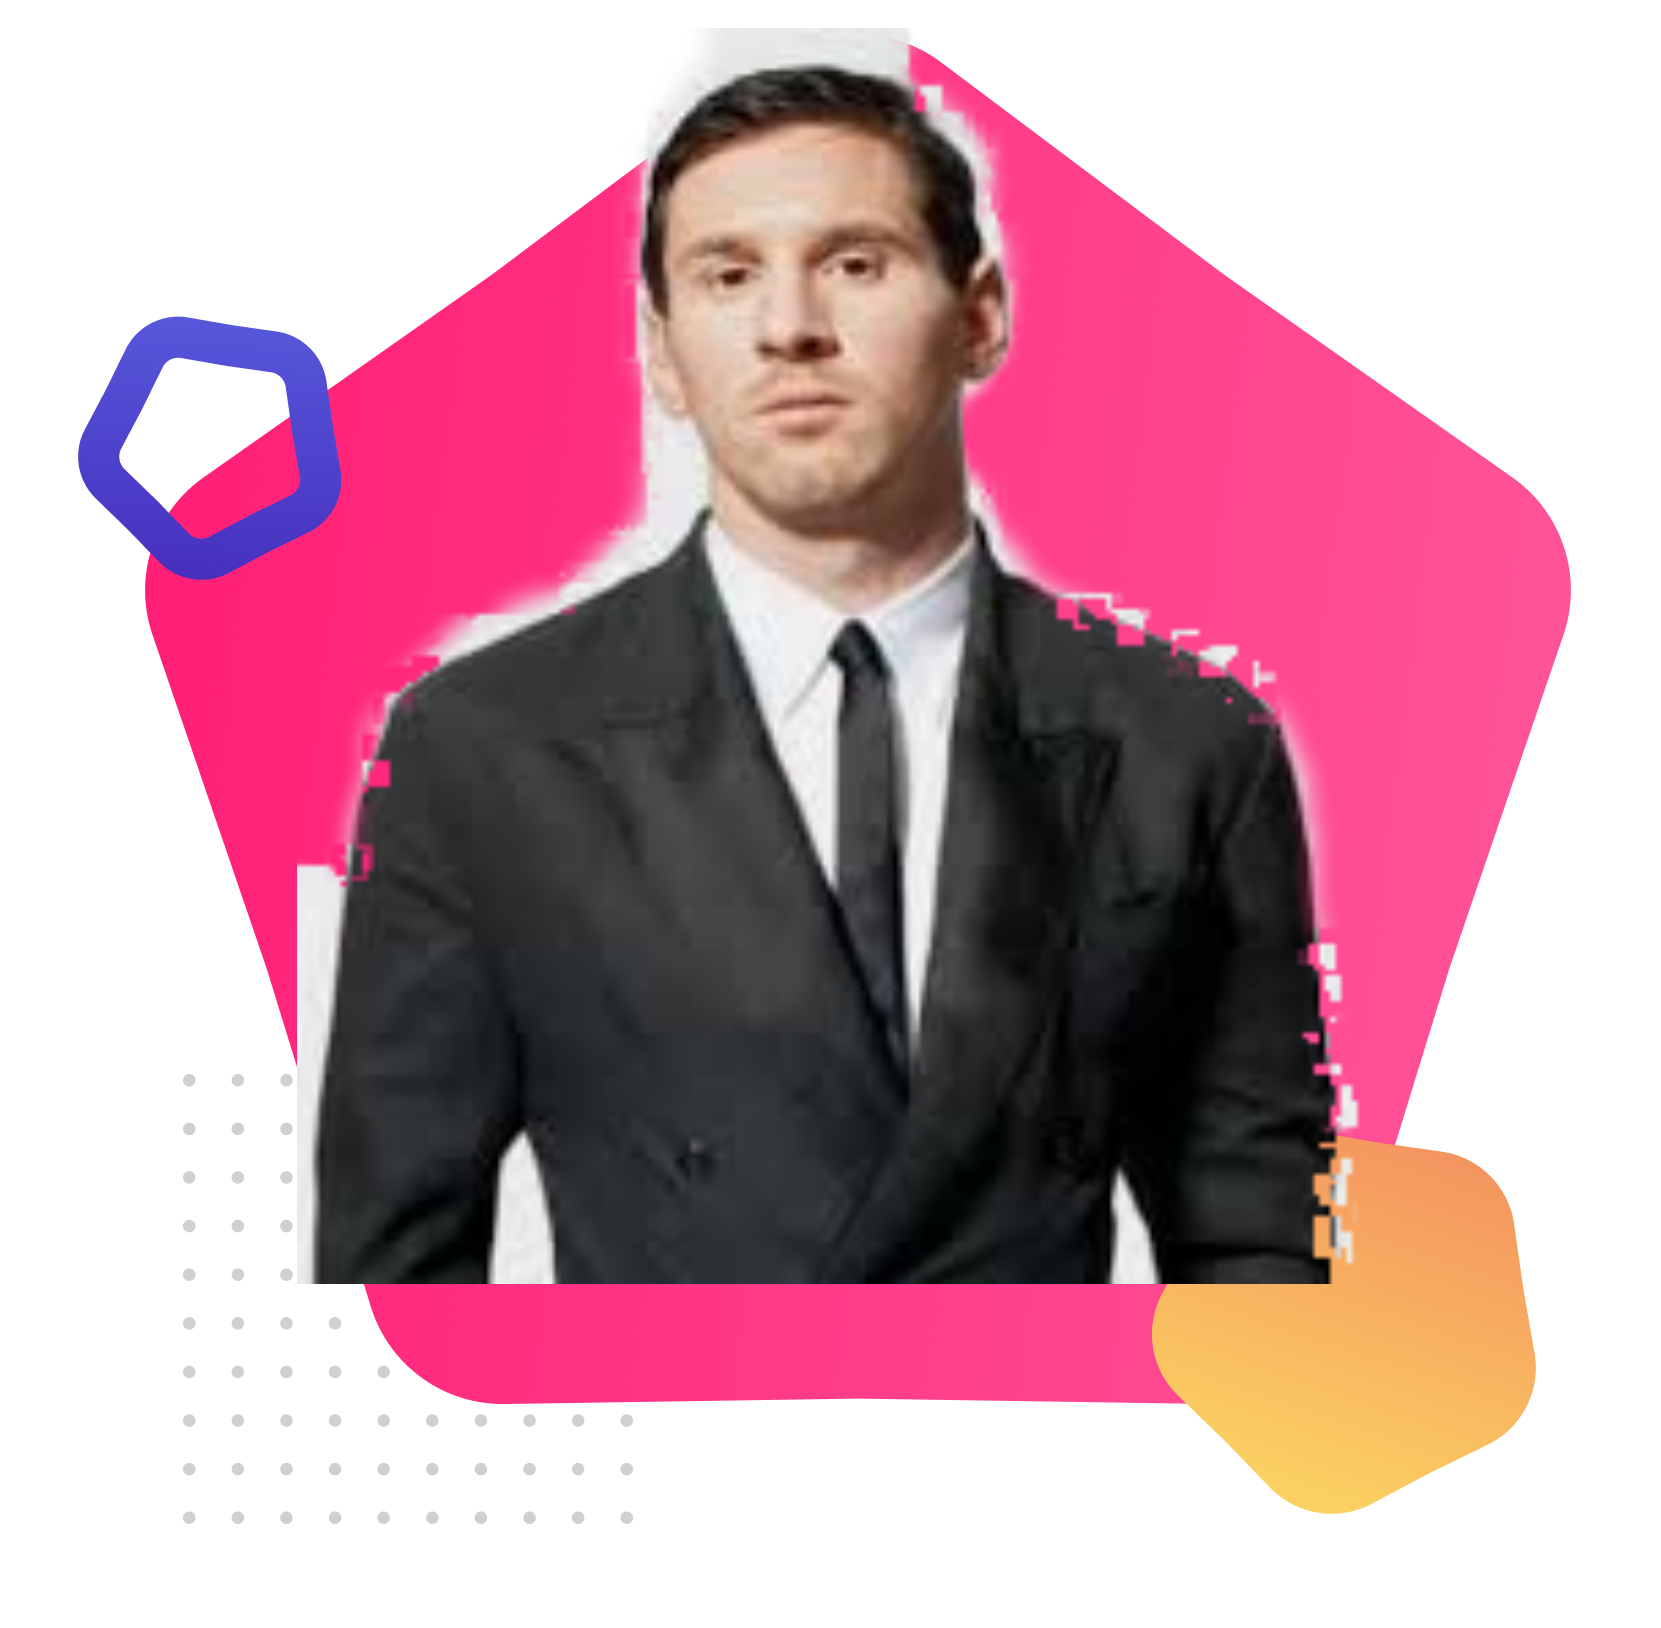
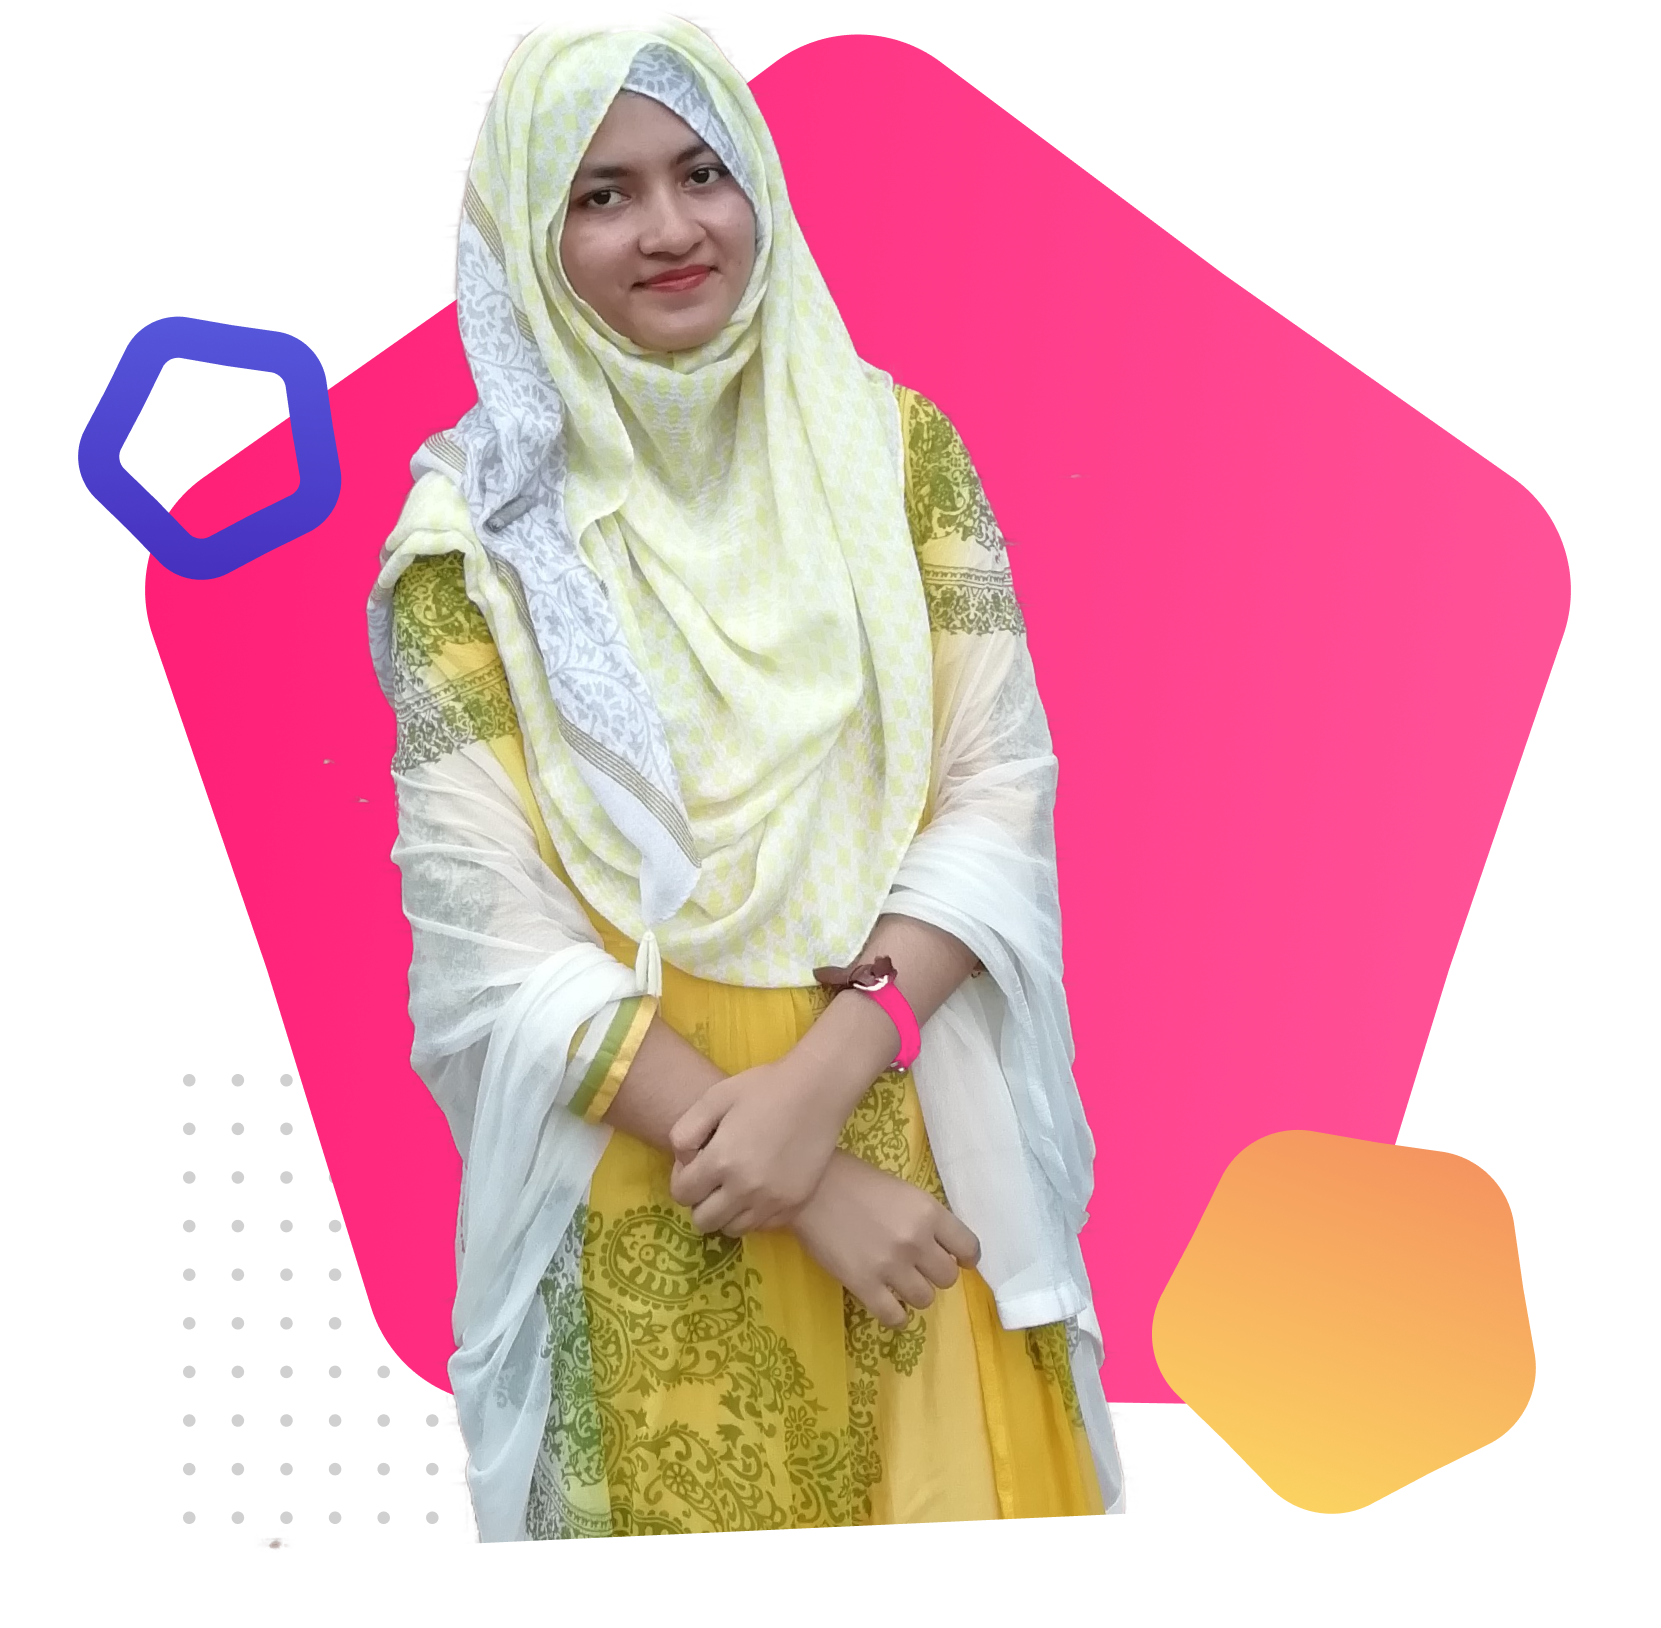
hi

diff --git a/style.css b/style.css
@@ -12,8 +12,7 @@ ul{
     margin-left: 60%;
 }
 ul li {
-    list-style: none;
-    
+    list-style: none;   
     float: left;
     line-height: 100px;
     font-weight: 600;
@@ -25,32 +24,26 @@ ul li a {
     color: black;
     padding: 0px 20px;
 }
-
 h1{
     font-size: 50px;
     color: #363958;
     letter-spacing: 1px;
 }
 h2{
-    /* About */
     width: 40px;
     height: 60px;
     left: 80%;
     top: 600px;
     margin-left: 10%;
     margin-top: 10%;
-
     font-family: Bebas Neue;
     font-style: normal;
     font-weight: bold;
     font-size: 48px;
     line-height: 30px;
     color: #363958;
-
 }
-
 p{
-    /* lorem text */
   width: 500px;
   height: 48px;
   left: 138px;
@@ -58,22 +51,15 @@ p{
   margin-left: 5px;
   margin-bottom: 9%;
   padding:50px 0px;
-
   font-family: roboto;
-  
   font-weight: 400;
   font-size: 16px;
   line-height: 24px;
   color: #3E3E3E;
-
-
 }
-
-
 .orange-highlight{
     color: #FF8367 ;
 }
-
 .name{
     text-align: left;
     line-height: 50px;
@@ -97,7 +83,6 @@ p{
 .half-width img{
     width: 100%;
 }
-
 .link-button{
     text-decoration: none;
     background: linear-gradient(0deg, #FF8063 -28.33%, #F46060 95.83%);
@@ -110,14 +95,11 @@ p{
     height: 100px;
     font-family: 'Times New Roman', Times, serif;
     font-size: medium;
-    
-
 }
 .first-section{
     margin-left: 3%;
     margin-right: 7%;
 }
-
 #second{
     font-family: Roboto;
     font-size: 16px;
@@ -128,7 +110,6 @@ p{
     text-align: left;
     margin-left: 10%;
     margin-top: -80px;
-
 }
 .second-section{
     margin-top: 5%;
@@ -146,15 +127,12 @@ p{
     height: 100px;
     font-family: 'Times New Roman', Times, serif;
     font-size: medium;
-
 }
-
 .third-section{
     background-color: #f0f0f0;
     width: 100%;
     height: 800px;
-    margin-top: 1000px;
-
+    margin-top: 1200px;
 }
 .latest-highlight{
     color: #F46060;
@@ -164,8 +142,7 @@ p{
     width: 700px;
     height: 48px;
     left: 532px;
-    top: 1250px;
-
+    top: 1400px;
     font-family: Bebas Neue;
     font-style: normal;
     font-weight: bold;
@@ -178,44 +155,34 @@ p{
     height: 350px;
     left: 135px;
     top: 1454px;
-    margin-top: 20%;
-    margin-right: 1%;
+    margin-top: 15%;
+    margin-right: 2%;
     margin-left: 3%;
     border-radius:10%;
 
     background: #FFFFFF;
     box-shadow: 0px 6.5812px 19.7436px rgba(0, 0, 0, 0.07);
-    
-
 }
 .working-project-paragraph{
     height: 60px;
-    margin-left: -1%;
-    
+    margin-left: -1%;   
     top: 1736px;
-
     font-family: Roboto;
     font-style: normal;
     font-weight: normal;
     font-size: 16px;
     line-height: 28px;
     color: #6C6C6C;
-    
-    
-
 }
-.working-project-image{
-    
+.working-project-image{    
     width: 339px;
     height: 213px;
     left: 551px;
     top: 1469px;
     margin-left: 5%;
     margin-top: 5%;
-
 }
-.working-project-headline{
-    
+.working-project-headline{   
    width: 300px;
    height: 28px;
    left: 952px;
@@ -227,20 +194,15 @@ p{
    font-size: 24px;
    line-height: 28px;
    text-align:center ;
-
    color: #363958;
-
 }
-.last-section{
-   
-    background-image: url(images/bg.png);
-    
+.last-section{  
+    background-image: url(images/bg.png);    
     position: absolute;
     width: 906px;
     height: 225px;
     left: 267px;
-    top: 2116px;
-    
+    top: 2116px;   
 }
 #lets-chat{
     text-decoration: none;

diff --git a/index.html b/index.html
@@ -6,7 +6,7 @@
     <title>Personal Portfolio</title>
     <link rel="preconnect" href="https://fonts.gstatic.com">
     <link href="https://fonts.googleapis.com/css2?family=Bebas+Neue&display=swap" rel="stylesheet">
-    <link rel="stylesheet" href="https://cdnjs.cloudflare.com/ajax/libs/font-awesome/4.7.0/css/font-awesome.min.css">
+
     <link rel="stylesheet" href="style.css">
 </head>
 <body>
@@ -22,7 +22,7 @@
    <section class="first-section">
        <div class="half-width">
            <h1 class="name">HELLO, I'M</h1>
-           <h1 class="name"><span class="orange-highlight">LIONEL MESSI</span></h1>
+           <h1 class="name"><span class="orange-highlight">FARIA ABID</span></h1>
            <p>Lorem, ipsum dolor sit amet consectetur adipisicing elit. Asperiores natus qui repudiandae dolore veritatis? Laborum ratione sapiente temporibus minima repudiandae architecto? Repellat nemo dolor dignissimos, dolorem est soluta aliquam maxime?</p>
            <a class="link-button" target="_blank" href="https://fariaabid.com/elementor-12/">Hire Me</a>  
 
@@ -40,7 +40,7 @@
       <div class="half-width">
         <h2>ABOUT</h2>
         <p id="second">Lorem Ipsum is simply dummy text of the printing and typesetting industry. Lorem Ipsum has been the industry's standard dummy text ever since the 1500s, when an unknown printer took a galley of type and scrambled it to make a type specimen book.</p>
-        <a class="link-button2 " target="_blank" href="https://fariaabid.com/elementor-12/"><i class="fas fa-download"></i>Download CV</a>
+        <a class="link-button2 " target="_blank" href="https://fariaabid.com/elementor-12/">Download CV</a>
 
        </div>
     </section >
@@ -70,7 +70,7 @@
             
         </div>
         <div class="banner">
-            <a id="lets-chat" target="_blank" href="https://fariaabid.com/elementor-12/">Let's Chat</a>
+            <a class="link-button" target="_blank" href="https://fariaabid.com/elementor-12/">Let's Chat</a>
         </div>
     </section>
 
